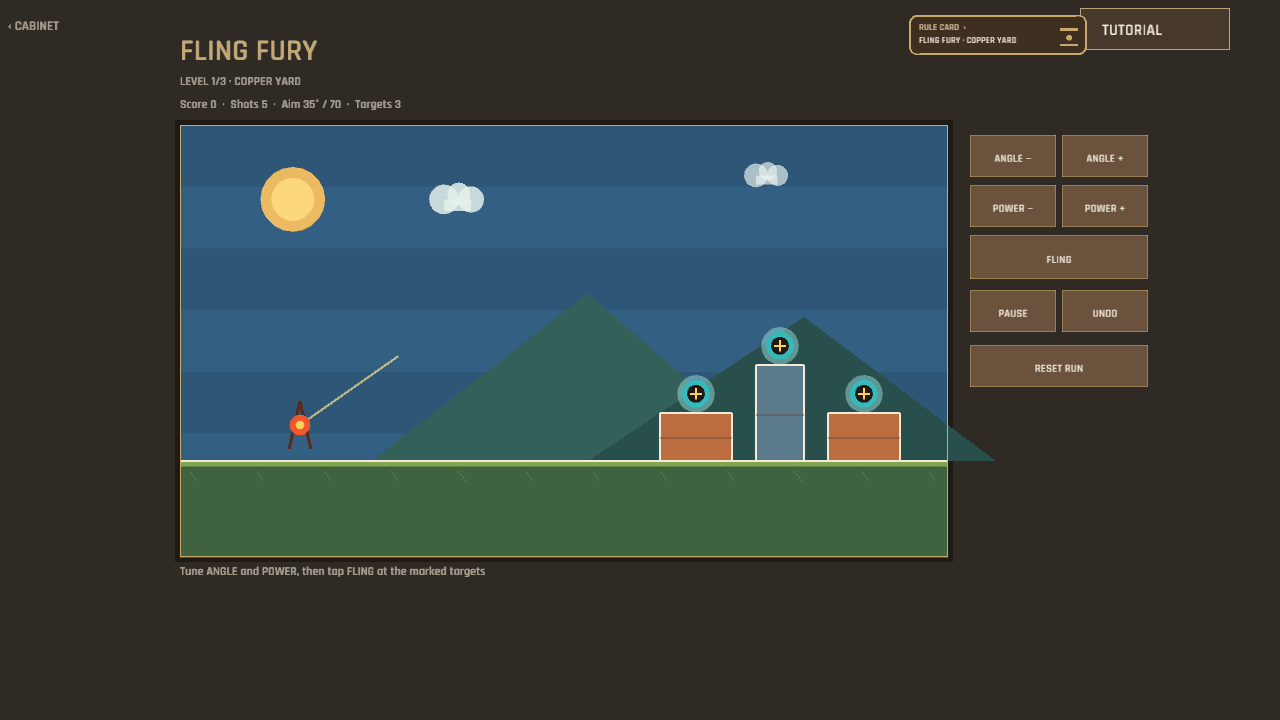
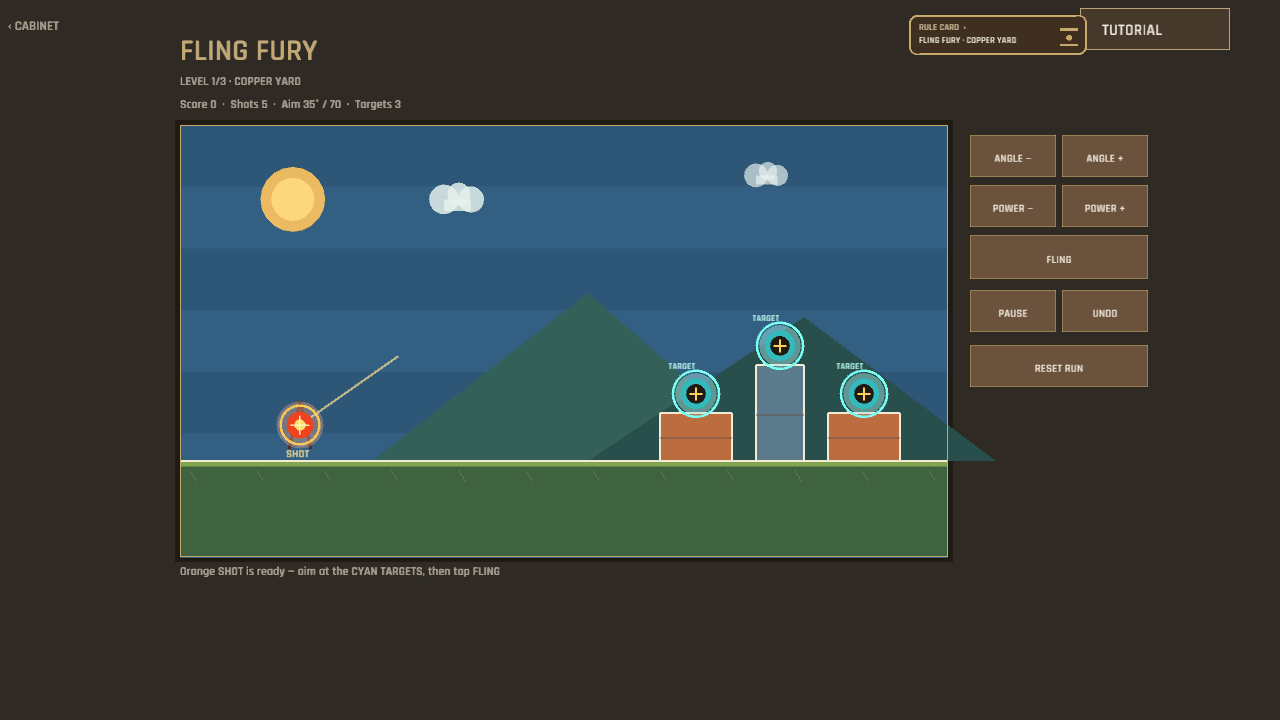
The shot and its marks now announce themselves across the fort (Fling Fury readability fix)
The live playfield made the orange charge and cyan target reticles too easy to overlook, leaving the launch objective unclear even though the simulation was active. The charge now has a larger halo, crosshair, and SHOT label; targets have stronger rings and TARGET labels; and the play instruction names the colors and the FLING action.\n\nThe refreshed verification capture confirms the desktop board reads clearly, and the focused Fling Fury tests plus the Windows/WebGL publish.ps1 validation pass.\n\nCo-Authored-By: Codex <noreply@openai.com>

diff --git a/src/fling_fury_ui.rs b/src/fling_fury_ui.rs
@@ -334,18 +334,8 @@ fn draw_board(l: Layout, game: &FlingFury) {
         crate::theme::LEATHER,
     );
     if let Some(shot) = game.shot {
-        draw_circle(
-            board.x + shot.x * l.cell,
-            board.y + shot.y * l.cell,
-            l.cell * 0.43,
-            Color::new(0.95, 0.34, 0.18, 1.),
-        );
-        draw_circle(
-            board.x + shot.x * l.cell,
-            board.y + shot.y * l.cell,
-            l.cell * 0.19,
-            Color::new(1., 0.82, 0.36, 1.),
-        );
+        let center = vec2(board.x + shot.x * l.cell, board.y + shot.y * l.cell);
+        draw_charge(center, l.cell, false);
         for trail in 1..=3 {
             let distance = trail as f32 * 0.55;
             draw_circle(
@@ -365,20 +355,58 @@ fn draw_board(l: Layout, game: &FlingFury) {
             2.,
             Color::new(1., 0.84, 0.34, 0.65),
         );
-        draw_circle(
-            sling_x,
-            sling_y,
-            l.cell * 0.43,
-            Color::new(0.95, 0.34, 0.18, 1.),
-        );
-        draw_circle(
-            sling_x,
-            sling_y,
-            l.cell * 0.18,
+        draw_charge(vec2(sling_x, sling_y), l.cell, true);
+    }
+    draw_rectangle_lines(board.x, board.y, board.w, board.h, 2., crate::theme::BRASS);
+}
+
+fn draw_charge(center: Vec2, cell: f32, ready: bool) {
+    let radius = cell * 0.56;
+    draw_circle(
+        center.x,
+        center.y,
+        radius * 1.75,
+        Color::new(1., 0.40, 0.16, if ready { 0.22 } else { 0.30 }),
+    );
+    draw_circle_lines(
+        center.x,
+        center.y,
+        radius * 1.35,
+        2.5,
+        Color::new(1., 0.80, 0.30, 0.95),
+    );
+    draw_circle(center.x, center.y, radius, Color::new(0.94, 0.26, 0.12, 1.));
+    draw_circle(
+        center.x,
+        center.y,
+        radius * 0.42,
+        Color::new(1., 0.87, 0.42, 1.),
+    );
+    draw_line(
+        center.x - radius * 0.7,
+        center.y,
+        center.x + radius * 0.7,
+        center.y,
+        1.5,
+        Color::new(1., 0.96, 0.72, 0.9),
+    );
+    draw_line(
+        center.x,
+        center.y - radius * 0.7,
+        center.x,
+        center.y + radius * 0.7,
+        1.5,
+        Color::new(1., 0.96, 0.72, 0.9),
+    );
+    if ready {
+        label(
+            "SHOT",
+            center.x - cell * 0.58,
+            center.y + cell * 1.35,
+            cell * 0.42,
             Color::new(1., 0.82, 0.36, 1.),
         );
     }
-    draw_rectangle_lines(board.x, board.y, board.w, board.h, 2., crate::theme::BRASS);
 }
 
 fn draw_block(board: Rect, cell: f32, block: &FlingBlock) {
@@ -433,13 +461,24 @@ fn draw_block(board: Rect, cell: f32, block: &FlingBlock) {
 
 fn draw_target(board: Rect, cell: f32, target: &FlingTarget) {
     let center = vec2(board.x + target.x * cell, board.y + target.y * cell);
-    let radius = cell * 0.58;
+    let radius = cell * 0.64;
     let glow = if target.falling {
         Color::new(1., 0.54, 0.23, 0.45)
     } else {
         Color::new(0.31, 0.86, 0.84, 0.32)
     };
     draw_circle(center.x, center.y, radius * 1.35, glow);
+    draw_circle_lines(
+        center.x,
+        center.y,
+        radius * 1.42,
+        2.5,
+        if target.falling {
+            Color::new(1., 0.77, 0.30, 1.)
+        } else {
+            Color::new(0.48, 1., 0.96, 1.)
+        },
+    );
     draw_circle(
         center.x,
         center.y,
@@ -468,6 +507,17 @@ fn draw_target(board: Rect, cell: f32, target: &FlingTarget) {
         2.,
         Color::new(1., 0.82, 0.36, 1.),
     );
+    label(
+        "TARGET",
+        center.x - cell * 1.15,
+        center.y - radius * 1.6,
+        cell * 0.38,
+        if target.falling {
+            Color::new(1., 0.77, 0.30, 1.)
+        } else {
+            Color::new(0.58, 1., 0.92, 1.)
+        },
+    );
 }
 
 fn draw_cloud(x: f32, y: f32, size: f32, alpha: f32) {
@@ -495,7 +545,9 @@ fn rotate_offset(x: f32, y: f32, center: Vec2, cos: f32, sin: f32) -> Vec2 {
 
 fn status_text(game: &FlingFury) -> String {
     match game.status {
-        FlingStatus::Playing => "Tune ANGLE and POWER, then tap FLING at the marked targets".into(),
+        FlingStatus::Playing => {
+            "Orange SHOT is ready — aim at the CYAN TARGETS, then tap FLING".into()
+        }
         FlingStatus::Won => "Every target fell — tap NEXT LEVEL to open the next fort".into(),
         FlingStatus::Lost => "Shots spent — tap RESET RUN and try a different weak point".into(),
     }
